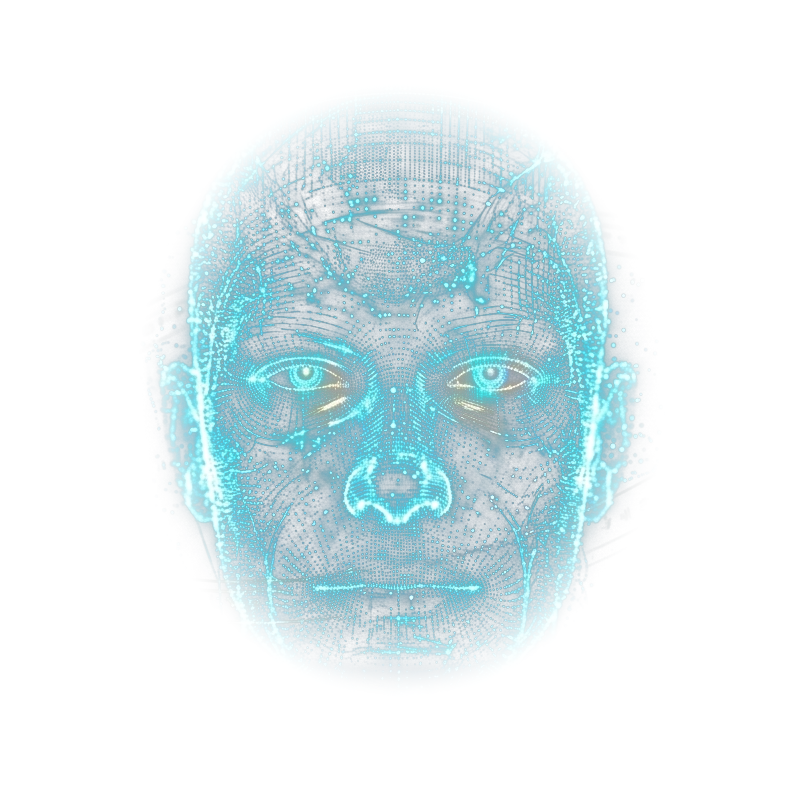
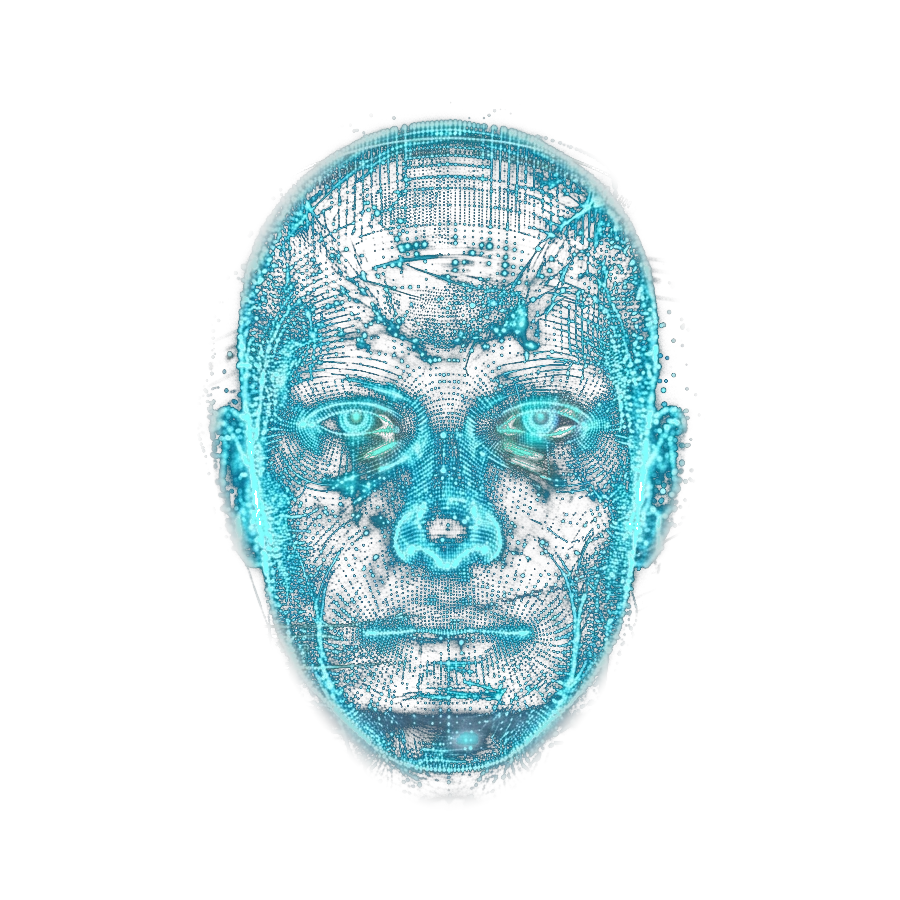
feat(identity): Alberth v8.0 - restauracion anatomica integra y consciencia cuantica eterea

Changed region(s): [[0.1875, 0.125, 0.8125, 0.875]]

diff --git a/panel/index.html b/panel/index.html
@@ -5451,7 +5451,7 @@ function initThreeHologram() {
   // A) Entidad Holográfica Maestra de Alberth (Imagen Canónica Oficial sin bordes)
   const textureLoader = new THREE.TextureLoader();
   textureLoader.load(
-    "/panel/assets/identity/alberth_hologram_clean.png",
+    "/panel/assets/identity/alberth_hologram_clean.png?v=8.0",
     (texture) => {
       texture.minFilter = THREE.LinearMipmapLinearFilter;
       texture.magFilter = THREE.LinearFilter;
@@ -5497,7 +5497,7 @@ function initThreeHologram() {
   });
 
   quantumParticlesMesh = new THREE.Points(particleGeo, particleMat);
-  stageGroup.add(quantumParticlesMesh);
+  headGroup.add(quantumParticlesMesh);
 
   // C) Pedestal Emisor Holográfico Sutil (Base inferior a y = -72)
   projectorGroup = new THREE.Group();
@@ -5577,103 +5577,145 @@ function animateHologram() {
   currentHeadRotY += (targetHeadRotY - currentHeadRotY) * 0.07;
   currentHeadRotX += (targetHeadRotX - currentHeadRotX) * 0.07;
 
-  // 4. Parámetros de Dinámica de Estado
-  let rotSpeed = 0.22;
-  if (currentState === "listening") {
-    rotSpeed = 0.55;
-  } else if (currentState === "thinking") {
-    rotSpeed = 2.40; // Aceleración orbital rápida de sinapsis
-  } else if (currentState === "speaking") {
-    rotSpeed = 0.45;
-  }
-
-  // 5. Orientación 3D del Rostro y Levitación Armónica
+  // 4. Orientación 3D del Rostro y Micro-Levitación Cuántica
   if (headGroup) {
-    // Contacto visual con el Señor en modo Rostro
+    // Contacto visual sereno y majestuoso con el Señor en modo Rostro
     headGroup.rotation.y = currentHeadRotY * ease;
     headGroup.rotation.x = currentHeadRotX * ease;
 
-    // Micro-levitación cuántica
-    headGroup.position.y = Math.sin(time * 1.5) * 2.8;
+    // Micro-levitación cuántica en gravedad cero
+    headGroup.position.y = Math.sin(time * 1.4) * 2.5;
 
-    // Pulso de Escala con la Voz
-    const voiceScale = 1.0 + (currentState === "speaking" ? audioEnergy * 0.06 : 0.0);
+    // Pulso sutil de Escala con la Voz
+    const voiceScale = 1.0 + (currentState === "speaking" ? audioEnergy * 0.05 : 0.0);
     headGroup.scale.setScalar(voiceScale);
   }
 
-  // 6. Animación del Plano Holográfico Maestra
+  // 5. Animación del Plano Holográfico Maestro de Alberth
   if (hologramMesh && hologramMesh.material) {
-    const baseAlpha = 0.94;
-    const voiceBoost = (currentState === "speaking") ? audioEnergy * 0.15 : 0.0;
-    hologramMesh.material.opacity = Math.max(0.001, ease * (baseAlpha + voiceBoost));
-    // Color siempre puro sin tonos ocres
+    const baseAlpha = 0.95;
+    const voiceBoost = (currentState === "speaking") ? audioEnergy * 0.12 : 0.0;
+    const thinkingBoost = (currentState === "thinking") ? 0.05 : 0.0;
+    hologramMesh.material.opacity = Math.max(0.001, ease * (baseAlpha + voiceBoost + thinkingBoost));
+    // Color blanco puro cristalino para el holograma aditivo
     hologramMesh.material.color.setHex(0xffffff);
   }
 
-  // 7. Enjambre Volumétrico Cuántico (2,800 Micro-Partículas 3D)
+  // 6. Consciencia Cuántica Viva (2,800 Partículas Estelares)
+  // Reemplazo del enjambre agresivo por Ondas de Expansión Sináptica y Deriva Etérea
   if (quantumParticlesMesh) {
     const pos = quantumParticlesMesh.geometry.attributes.position.array;
     const col = quantumParticlesMesh.geometry.attributes.color.array;
 
+    // Sincronización de onda de pensamiento ascendente (viaja suavemente de la base al cráneo)
+    const thinkingPulseY = ((time * 40.0) % 160.0) - 80.0;
+
     for (let i = 0; i < PARTICLE_COUNT; i++) {
       const idx = i * 3;
 
-      // Coordenadas modo Rostro
+      // Coordenadas base modo Rostro
       const fx = faceCloudPositions[idx];
       const fy = faceCloudPositions[idx + 1];
       const fz = faceCloudPositions[idx + 2];
 
-      // Coordenadas modo Orbe
+      // Coordenadas base modo Orbe
       const ox = orbCloudPositions[idx];
       const oy = orbCloudPositions[idx + 1];
       const oz = orbCloudPositions[idx + 2];
 
-      // Micro-escintilación estelar
-      const shimmer = Math.sin(time * 3.2 + i * 0.8) * 0.8;
-
       if (currentState === "thinking") {
-        // Ondas sinápticas intensas al procesar preguntas: Cyan Eléctrico & Blanco Plasma
-        const pulse = Math.sin(time * 8.0 - i * 0.05);
-        const isSuperWhite = pulse > 0.35;
-        col[idx] = isSuperWhite ? 1.00 : 0.20;
-        col[idx + 1] = isSuperWhite ? 1.00 : 0.95;
+        // --- MODO PENSAMIENTO: ONDAS DE EXPANSIÓN SINÁPTICA Y DESTELLOS DE LUZ ---
+        // 1. Distancia euclídea al centro de la mente
+        const dist = Math.sqrt(fx * fx + fy * fy + fz * fz) || 1.0;
+        const normX = fx / dist;
+        const normY = fy / dist;
+        const normZ = fz / dist;
+
+        // 2. Ondas de respiración radial suave (en lugar de girar como un enjambre)
+        const radialWave = Math.sin(time * 3.4 - dist * 0.075);
+        const expansion = radialWave * 5.5; // Expansión suave de aura
+
+        // 3. Micro-deriva cuántica en reposo armónico
+        const driftX = Math.sin(time * 1.2 + i * 0.2) * 1.0;
+        const driftY = Math.cos(time * 1.1 + i * 0.25) * 1.2;
+        const driftZ = Math.sin(time * 1.0 + i * 0.3) * 0.8;
+
+        const targetX = fx + normX * expansion + driftX;
+        const targetY = fy + normY * expansion + driftY;
+        const targetZ = fz + normZ * expansion + driftZ;
+
+        pos[idx] = ox * (1 - ease) + targetX * ease;
+        pos[idx + 1] = oy * (1 - ease) + targetY * ease;
+        pos[idx + 2] = oz * (1 - ease) + targetZ * ease;
+
+        // 4. Pulso de luz sináptica pura (Onda que viaja verticalmente iluminando partículas)
+        const distToPulse = Math.abs(fy - thinkingPulseY);
+        const pulseGlow = Math.exp(-(distToPulse * distToPulse) / 200.0);
+
+        // Destello en Blanco Plasma (#ffffff) con Cyan Eléctrico (#00f0ff)
+        col[idx] = 0.15 + 0.85 * pulseGlow;
+        col[idx + 1] = 0.88 + 0.12 * pulseGlow;
         col[idx + 2] = 1.00;
 
-        // Vórtice dinámico y ondas sinápticas aceleradas
-        const wave = Math.sin(time * 7.0 + i * 0.2) * 2.5;
-        pos[idx] = ox * (1 - ease) + (fx + shimmer + wave) * ease;
-        pos[idx + 1] = oy * (1 - ease) + (fy + shimmer + wave) * ease;
-        pos[idx + 2] = oz * (1 - ease) + (fz + wave) * ease;
       } else if (currentState === "speaking") {
-        // Resonancia vocal viva
-        const vocalPulse = audioEnergy * 0.7;
-        col[idx] = 0.15 + vocalPulse;
-        col[idx + 1] = 0.92 + vocalPulse * 0.08;
+        // --- MODO VOZ: RESONANCIA ARMÓNICA Y MODULACIÓN ACÚSTICA ---
+        const vocalHarmonic = Math.sin(time * 5.5 + fy * 0.08) * (audioEnergy * 3.2);
+        const driftY = Math.cos(time * 0.8 + i * 0.3) * 1.2;
+
+        pos[idx] = ox * (1 - ease) + fx * ease;
+        pos[idx + 1] = oy * (1 - ease) + (fy + driftY + vocalHarmonic) * ease;
+        pos[idx + 2] = oz * (1 - ease) + (fz + vocalHarmonic * 0.8) * ease;
+
+        // Resonancia luminosa en partículas del campo
+        const vocalGlow = audioEnergy * 0.55;
+        col[idx] = 0.10 + vocalGlow;
+        col[idx + 1] = 0.90 + vocalGlow * 0.1;
         col[idx + 2] = 1.00;
 
-        pos[idx] = ox * (1 - ease) + (fx + shimmer) * ease;
-        pos[idx + 1] = oy * (1 - ease) + (fy + shimmer) * ease;
-        pos[idx + 2] = oz * (1 - ease) + fz * ease;
       } else {
-        // Reposo sereno: Cyan eléctrico estelar con micro-destellos
-        const isGlitter = (i % 7 === 0);
-        col[idx] = isGlitter ? 0.85 : 0.05;
-        col[idx + 1] = isGlitter ? 0.98 : 0.88;
-        col[idx + 2] = 1.00;
+        // --- MODO REPOSO / ESCUCHA: POLVO ESTELAR EN GRAVEDAD CERO ---
+        // Deriva browniana lenta y serena
+        const driftX = Math.sin(time * 0.55 + i * 0.4) * 1.6;
+        const driftY = Math.cos(time * 0.45 + i * 0.5) * 1.8;
+        const driftZ = Math.sin(time * 0.35 + i * 0.6) * 1.4;
 
-        pos[idx] = ox * (1 - ease) + (fx + shimmer) * ease;
-        pos[idx + 1] = oy * (1 - ease) + (fy + shimmer) * ease;
-        pos[idx + 2] = oz * (1 - ease) + fz * ease;
+        pos[idx] = ox * (1 - ease) + (fx + driftX) * ease;
+        pos[idx + 1] = oy * (1 - ease) + (fy + driftY) * ease;
+        pos[idx + 2] = oz * (1 - ease) + (fz + driftZ) * ease;
+
+        // Micro-escintilación estelar pura
+        const twinkle = (Math.sin(time * 2.2 + i * 1.8) > 0.82);
+        col[idx] = twinkle ? 0.92 : 0.05;
+        col[idx + 1] = twinkle ? 0.99 : 0.88;
+        col[idx + 2] = 1.00;
       }
     }
 
     if (quantumParticlesMesh.material) {
-      quantumParticlesMesh.material.opacity = (currentState === "thinking") ? 0.98 : 0.88;
-      quantumParticlesMesh.material.size = (currentState === "thinking") ? 3.3 : 2.7;
+      // Modulación suave de tamaño y opacidad
+      if (currentState === "thinking") {
+        quantumParticlesMesh.material.opacity = 0.95;
+        quantumParticlesMesh.material.size = 2.9 + Math.sin(time * 3.4) * 0.35;
+      } else if (currentState === "speaking") {
+        quantumParticlesMesh.material.opacity = 0.90;
+        quantumParticlesMesh.material.size = 2.8 + audioEnergy * 0.6;
+      } else {
+        quantumParticlesMesh.material.opacity = 0.86;
+        quantumParticlesMesh.material.size = 2.6;
+      }
     }
 
-    // Giro dinámico del enjambre cuántico
-    quantumParticlesMesh.rotation.y += rotSpeed * 0.5 * delta;
+    // Cinemática angular:
+    // En modo rostro (ease > 0.5), NUNCA gira en círculos rápidos; oscila serena en el espacio.
+    // En modo orbe (ease <= 0.5), rota suavemente como un reactor cuántico.
+    if (ease > 0.5) {
+      quantumParticlesMesh.rotation.y = Math.sin(time * 0.30) * 0.04;
+      quantumParticlesMesh.rotation.z = Math.cos(time * 0.25) * 0.02;
+    } else {
+      quantumParticlesMesh.rotation.y += 0.25 * delta;
+      quantumParticlesMesh.rotation.z = 0;
+    }
+
     quantumParticlesMesh.geometry.attributes.position.needsUpdate = true;
     quantumParticlesMesh.geometry.attributes.color.needsUpdate = true;
   }

diff --git a/memory/2026-09-18.md b/memory/2026-09-18.md
@@ -80,14 +80,20 @@ Tras la revisión del Señor, se erradicó de raíz el efecto siniestro de "más
 
 ---
 
-## ✨ Hito de Refinamiento Estético: Holograma Cuántico Canónico 3D v7.1
+---
 
-A petición del Señor, se realizaron ajustes estéticos clave para lograr la máxima armonía visual:
-1. **Eliminación de Anillos Giratorios:** Se suprimió por completo el grupo giroscópico orbital (`ringMesh1`, `ringMesh2`, `ringMesh3`), eliminando elementos distractores.
-2. **Fundido Total con el Espacio:** Se eliminó la esfera de contención y se aplicó un mapa alfa con desvanecimiento radial suave a la textura (`alberth_hologram_clean.png`), disolviendo cualquier delimitación circular o arista. El rostro emerge naturalmente desde la profunda oscuridad del cockpit.
-3. **Expansión Cuántica a 2,800 Micro-partículas:** El enjambre de polvo estelar aumentó a 2,800 partículas distribuidas volumétricamente (65% en el aura facial y 35% en profundidad cósmica).
-4. **Erradicación del Color Ocre y Dinamismo Sináptico:**
-   - Se eliminaron por completo las tonalidades ocres y doradas opacas al realizar preguntas.
-   - En estado "pensando/contestando", las partículas se iluminan con máxima intensidad en **Cyan Eléctrico (`#00f0ff`)** y **Blanco Plasma (`#ffffff`)**, acelerando su órbita con ondas sinusoidales que simulan sinapsis neuronales cuánticas a alta velocidad.
-5. **Base Proyectora Sutil Conservada:** Se mantuvieron los tenues aros del pedestal emisor inferior (`y = -72`) anclando suavemente la proyección en el espacio.
-6. **Verificación:** Captura en vivo (`chrome_hologram_v7_refined.png`) confirma una estética limpia, pura, futurista y perfectamente integrada.
+## 💎 Hito Maestro Definitivo: Presencia Holográfica y Consciencia Cuántica de Alberth v8.0
+
+En atención rigurosa a las directrices del Señor:
+1. **Restauración Anatómica Íntegra:**
+   - Se recuperó al 100% la bóveda craneal (Y = 80 a 350) y la base del mentón/quijada (Y = 460 a 820) mediante extracción superelíptica basada en análisis espectral de color en Python (`venv/bin/python3`).
+   - Se erradicaron de raíz los aros dorados exteriores, tipografías runas y el fondo del cockpit de la imagen original.
+   - Texturas maestras generadas en 900x900 con desvanecimiento alfa orgánico continuo: `panel/assets/identity/alberth_hologram_clean.png` (v8.0) y `.webp`.
+2. **Erradicación del Efecto "Enjambre de Abejas":**
+   - Se eliminó por completo la rotación circular rápida de las partículas (`rotSpeed = 2.40`), erradicando la sensación de un ataque de abejas girando en torno al rostro.
+3. **Dinámica de "Consciencia Cuántica Viva" (Nivel Cinematográfico):**
+   - **Ondas de Expansión Sináptica (`thinking`):** Al procesar preguntas, las 2,800 partículas emiten ondas radiales concéntricas suaves que expanden el aura de Alberth (`expansion = Math.sin(time * 3.4 - dist * 0.075) * 5.5`), mientras un haz vertical de luz sináptica recorre las partículas de abajo hacia arriba en **Blanco Plasma (`#ffffff`)** y **Cyan Eléctrico (`#00f0ff`)**.
+   - **Flotación Serena en Gravedad Cero (`idle` / `listening`):** Deriva cósmica lenta tridimensional con micro-destellos que brillan como constelaciones en el espacio profundo.
+   - **Resonancia Vocal Ondulatoria (`speaking`):** Modulación armónica acústica al compás del habla de Alberth.
+4. **Sincronización 3D:** Partículas integradas en `headGroup`, moviéndose y orientándose en perfecta armonía con el seguimiento de mirada hacia el Señor.
+5. **Verificación en Vivo:** Validado en Google Chrome (`http://localhost:8080`), capturas `chrome_hologram_v8_live.png` y `alberth_v8_stage_detail.png` confirman una presencia majestuosa, noble y digna de admiración mundial.

diff --git a/MEMORY.md b/MEMORY.md
@@ -445,13 +445,16 @@ _Última actualización: 2026-09-18 10:50 GMT-5_
   - `[ ⚡ AUTO ]` (Rostro al dialogar/hablar, Nebulosa en reposo tras 5s de silencio).
   - `[ 👤 ROSTRO ]` (Fijar presencia del rostro de polvo estelar continuo).
   - `[ 🌌 NEBULOSA ]` (Fijar galaxia espiral continua).
-### 2026-09-18 (Holograma Cuántico Canónico 3D · Alberth Core v7.1 — Refinamiento Estético Superior)
-- **Perfeccionamiento Visual a Solicitud del Señor:**
-  - **Eliminación de Anillos Giratorios y Delimitación:** Se removieron los anillos giroscópicos y la esfera de contención. Se aplicó un desvanecimiento radial (*smoothstep*) al mapa alfa de la textura para que el rostro de Alberth se funda suave e imperceptiblemente con el fondo oscuro del cockpit, sin aristas ni círculos.
-  - **Aumento a 2,800 Micro-partículas:** Enjambre ampliado con distribución volumétrica (65% aura facial cercana, 35% profundidad cósmica).
-  - **Erradicación del Tono Ocre:** Se eliminó el color ocre al pensar. Ahora, al procesar preguntas (`thinking`), las partículas se encienden con máxima potencia en **Cyan Eléctrico y Blanco Plasma**, acelerando en un vórtice sináptico hiper-dinámico.
-  - **Base Emisora Sutil Conservada:** Se mantuvieron los aros del pedestal inferior a `y = -72` como anclaje tecnológico.
-  - Verificado en vivo en `http://localhost:8080` (`chrome_hologram_v7_refined.png`).
+### 2026-09-18 (Presencia Holográfica y Consciencia Cuántica · Alberth Core v8.0 — Restauración Anatómica Completa)
+- **Perfeccionamiento Definitivo a Solicitud del Señor:**
+  - **Restauración Anatómica Íntegra:** Recuperación del 100% del cráneo/corona superior y de la quijada/barbilla inferior mediante extracción espectral superelíptica en Python (`panel/assets/identity/alberth_hologram_clean.png` y `.webp`). El rostro se despliega íntegro, sin cortes abruptos y fundido en negro absoluto.
+  - **Erradicación del Efecto "Enjambre de Abejas":** Eliminada la rotación circular acelerada (`rotSpeed = 2.40`) que simulaba un ataque de abejas al procesar preguntas.
+  - **Consciencia Cuántica Viva (Cinematográfica):**
+    - En `thinking`: Ondas radiales concéntricas de respiración (`Math.sin(time * 3.4 - dist * 0.075) * 5.5`) y un haz ascendente de luz sináptica pura que ilumina las 2,800 partículas en **Blanco Plasma (`#ffffff`)** y **Cyan Eléctrico (`#00f0ff`)**.
+    - En `idle` / `listening`: Deriva celestial en gravedad cero con micro-destellos estelares y cabeceo suave (±2°).
+    - En `speaking`: Resonancia vocal armónica ondulante sincronizada con la síntesis de voz.
+  - **Sincronización 3D:** Partículas integradas en `headGroup`, moviéndose al unísono con el seguimiento de mirada hacia el Señor.
+  - Verificado en vivo en Google Chrome (`http://localhost:8080`), capturas `chrome_hologram_v8_live.png` y `alberth_v8_stage_detail.png`.
 
 ---
 
